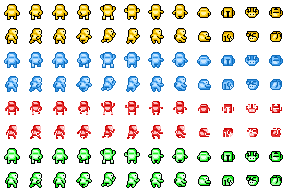
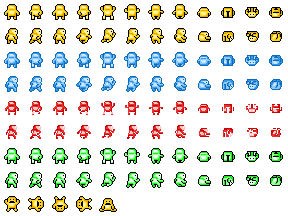
Death, part 1

diff --git a/src/game/player.js b/src/game/player.js
@@ -61,6 +61,11 @@ var Player = function (z) {
     // "Phase"
     this.phase = 0;
 
+    // Is dying
+    this.dying = false;
+    // Death type
+    this.deathType = 0;
+
     // Sprite
     this.spr = new Sprite(24, 24);
 }
@@ -93,7 +98,7 @@ Player.prototype.updateSpeed = function (speed, target, acc, tm) {
 // Control
 Player.prototype.control = function (vpad, tm) {
 
-    const BRAKE_FACTOR = 0.001;
+    const BRAKE_FACTOR = 0.0025;
     const DELTA = 0.05;
     const X_BONUS = 3.0;
     const GRAVITY = 0.025;
@@ -309,9 +314,23 @@ Player.prototype.animate = function (tm) {
     const DELTA = 0.0001;
     const JUMP_DELTA = 0.01;
     const ROLL_SPEED = 4;
+    const SPIN_SPEED = 8;
 
+    // If dying
+    if(this.dying) {
+
+        // Touch ground
+        if(this.canJump) {
+
+            this.spr.animate(8, 4, 4, 0, tm);
+        }
+        else {
+
+            this.spr.animate(8, 0, 3, SPIN_SPEED, tm);
+        }
+    }
     // Double jumping or rolling
-    if (this.doubleJump || this.rolling) {
+    else if (this.doubleJump || this.rolling) {
 
         this.spr.animate(this.animRow, 8, 11, ROLL_SPEED, tm);
     }
@@ -372,26 +391,48 @@ Player.prototype.updateCamera = function (cam, tm) {
 // Update
 Player.prototype.update = function (vpad, camX, tm) {
 
-    // Update flash timer
-    if(this.flashTimer > 0.0) {
+    if(this.dying) {
 
-        this.flashTimer -= 1.0 * tm;
+        this.flashTimer = 0.0;
+        this.hurtTimer = 0.0;
+        this.healTimer = 0.0;
+
+        this.target.z = 0.0;
+        this.target.x = 0.0;
+    }
+    else {
+
+        // Check death
+        if(this.lives <= 0
+        || this.fuel <= 0.0) {
+
+            // Die
+            this.die(this.lives <= 0 ? 0 : 1);
+        }
+
+        // Update flash timer
+        if(this.flashTimer > 0.0) {
+
+            this.flashTimer -= 1.0 * tm;
+        }
+
+        // Update hurt timer
+        if(this.hurtTimer > 0.0) {
+
+            this.hurtTimer -= 1.0 * tm;
+        }
+
+        // Update heal timer
+        if(this.healTimer > 0.0) {
+
+            this.healTimer -= 1.0 * tm;
+        }
+
+        // Control
+        this.control(vpad, tm);
+
     }
 
-    // Update hurt timer
-    if(this.hurtTimer > 0.0) {
-
-        this.hurtTimer -= 1.0 * tm;
-    }
-
-    // Update heal timer
-    if(this.healTimer > 0.0) {
-
-        this.healTimer -= 1.0 * tm;
-    }
-
-    // Control
-    this.control(vpad, tm);
     // Move
     this.move(tm);
     // Animate
@@ -503,4 +544,17 @@ Player.prototype.addPhase = function() {
 
     if(++ this.phase > 1)
         ++ this.speedBonus;
+}
+
+
+// Die
+Player.prototype.die = function(t) {
+
+    const FLY_HEIGHT = 0.05;
+
+    if(this.dying) return;
+
+    this.dying = true;  
+    this.deathType = t;
+    this.speed.y = -FLY_HEIGHT;
 }

diff --git a/src/game/hud.js b/src/game/hud.js
@@ -8,17 +8,24 @@
 // Constructor
 var HUD = function() {
 
+    const INITIAL_TIME_SECONDS = 60.0;
+
     // Distance
     this.dist = 0.0;
     // To checkpoint
     this.checkpointDist = 500.0;
     // Time
-    this.time = 60.0 * 60.0;
+    this.time = INITIAL_TIME_SECONDS * 60.0;
 
     // Lives
     this.lives = 3;
     // Fuel
     this.fuel = 1.0;
+
+    // Death activated
+    this.deathActivated = false;
+    // Death message timer
+    this.deathMsgTimer = 0.0;
 }
 
 
@@ -107,7 +114,15 @@ HUD.prototype.update = function(pl, checkpoint, tm) {
     this.checkpointDist = checkpoint.getDistance(pl) * METRE / 2.0 * tm;
 
     // Update time
-    this.time -= 1.0 * tm;
+    if(this.time > 0.0)
+        this.time -= 1.0 * tm;
+    if(this.time <= 0.0) {
+
+        // Kill player
+        pl.die(2);
+
+        this.time = 0.0;
+    }
 
     // Update fuel
     let fuel = pl.fuel;
@@ -126,6 +141,18 @@ HUD.prototype.update = function(pl, checkpoint, tm) {
 
     // Set lives
     this.lives = pl.lives;
+
+    // Check player death
+    if(pl.dying && !this.deathActivated) {
+
+        this.deathActivated = true;
+    }
+
+    // Update death timer
+    if(this.deathActivated) {
+
+        this.deathMsgTimer += 1.0 * tm;
+    }
 }
 
 
@@ -140,6 +167,27 @@ HUD.prototype.draw = function(g, a) {
 
     // Draw fuel
     this.drawFuel(g, a);
+}
+
+
+// Draw death message
+HUD.prototype.drawDeathMessage = function(g, a, pl) {
+
+    const FLICKER_TIME = 60.0;
+    const TEXT = [
+        "YOU DIED.", "OUT OF FUEL",
+        "TIME'S UP!"
+    ];
+
+    if(!pl.dying || !this.deathActivated) return;
+
+    // Flicker
+    if(this.deathMsgTimer < FLICKER_TIME
+        && Math.floor(this.deathMsgTimer / 2) % 2 == 0)
+            return;
+
+    // Draw text
+    g.drawText(a.bitmaps.font, TEXT[pl.deathType], 64, 32, -1, 0, true);
 }
 
 

diff --git a/src/game/game.js b/src/game/game.js
@@ -125,9 +125,13 @@ Game.prototype.draw = function (g) {
     // Draw HUD
     this.hud.draw(g, this.assets);
 
+    // Draw HUD death message
+    this.hud.drawDeathMessage(g, this.assets, this.player);
+
     // Draw possible checkpoint message
     this.checkpoint.drawMessage(g, this.assets);
 
     // Draw pause box
     this.pause.draw(g, this.assets);
+
 }
